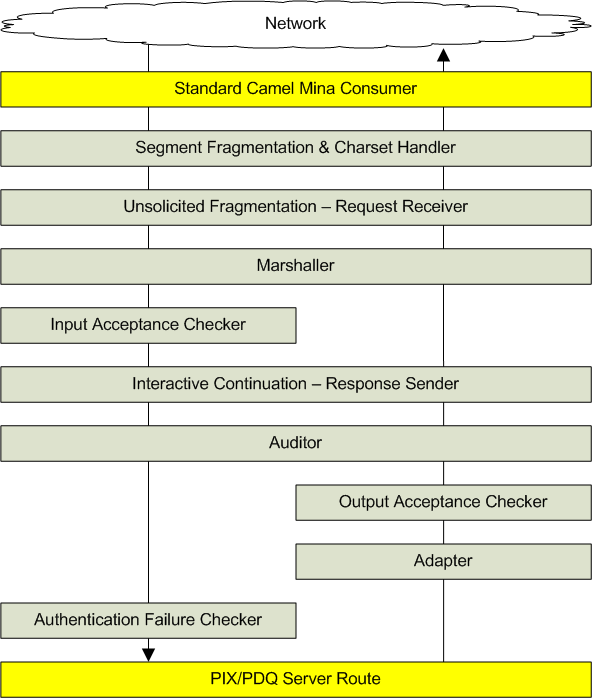
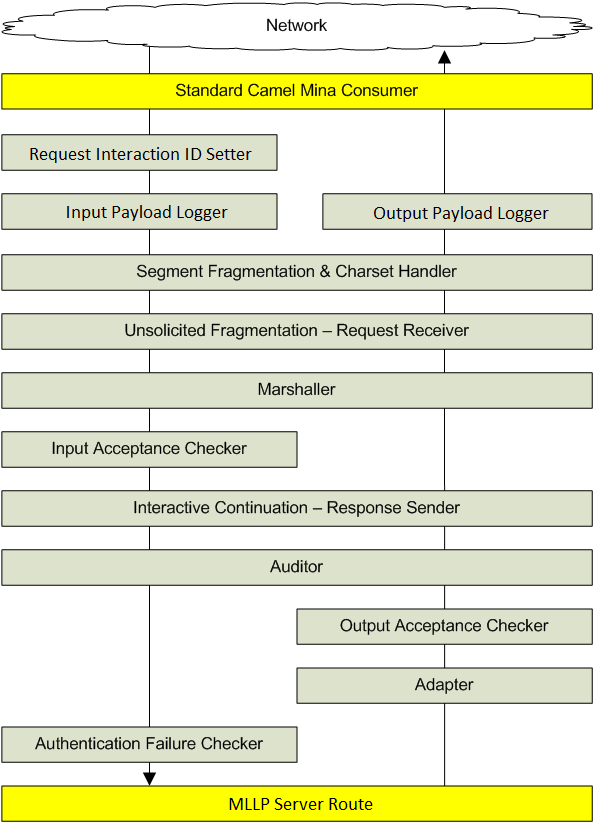
updated documentation of MLLP interceptors

diff --git a/_pages/ihe/mllp/hl7v2InterceptorChain.md b/_pages/ihe/mllp/hl7v2InterceptorChain.md
@@ -56,6 +56,8 @@ The standard producer-side chain is shown in the figure below:
 
 | Package name part | `<Function>` (class name part) | Optionality  | Processing outgoing requests | Processing incoming responses
 |:----------------- |:-------------------------------|:-------------|:---------------------------- |:-----------------------------
+| `mllp.core` | `OutputPayloadLogger` | only when explicitly configured, see [payload logging] | n/a | logs response message
+| `mllp.core` | `InputPayloadLogger` | only when explicitly configured, see [payload logging] | logs request message | n/a
 | `mllp.core` | `StringProcessing` | always | performs [segment fragmentation], when necessary  | converts message received from the network to String and performs [segment defragmentation], when necessary
 | `mllp.core` | `RequestFragmenter` | only when [unsolicited request fragmentation] is enabled  | when corresponding conditions are met, plays out the scenario described in Section 2.10.2.2 of the HL7 v.2.5 specification  | n/a
 | `hl7v2` | `Marshal` | only when [interactive response continuation] is disabled  | converts message to String  | converts message into ca.uhn.hl7v2.model.Message
@@ -73,6 +75,9 @@ The standard producer-side chain is shown in the figure below:
 
 | Package name part | `<Function>` (class name part) | Optionality | Processing incoming requests | Processing outgoing responses
 |:----------------- |:-------------------------------|:------------|:-----------------------------|:-----------------------------
+| `mllp.core` | `RequestInteractionSetter` | always | populates interaction ID as a Camel message header | n/a
+| `mllp.core` | `InputPayloadLogger` | only when explicitly configured, see [payload logging] | logs request message | n/a
+| `mllp.core` | `OutputPayloadLogger` | only when explicitly configured, see [payload logging] | n/a | logs response message
 | `mllp.core` | `StringProcessing` | always | converts message received from the network to String and performs [segment defragmentation], when necessary | performs [segment fragmentation], when necessary |
 | `mllp.core` | `RequestDefragmenter` | only when [unsolicited request fragmentation] is enabled | when corresponding conditions are met, plays out the scenario described in Section 2.10.2.2 of the HL7 v.2.5 specification | n/a |
 | `hl7v2` | `Marshal` | always | converts message to `ca.uhn.hl7v2.model.Message` | converts message to String |
@@ -130,3 +135,4 @@ that takes the interceptor class as constructor parameter and instantiates inter
 [segment fragmentation]: {{ site.baseurl }}{% link _pages/ihe/mllp/segmentFragmentation.md %}
 [segment defragmentation]: {{ site.baseurl }}{% link _pages/ihe/mllp/segmentFragmentation.md %}
 [ATNA auditing]: {{ site.baseurl }}{% link _pages/ihe/atna.md %}
+[payload logging]: {{ site.baseurl }}{% link _pages/ihe/payloadLogging.md %}
